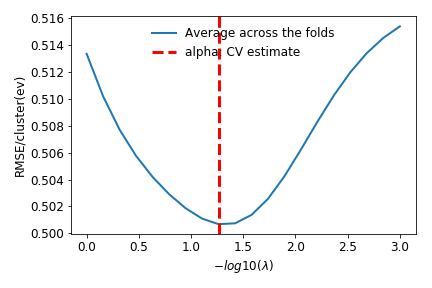
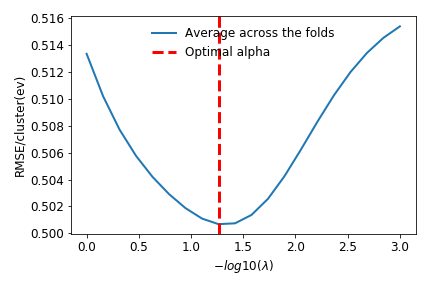
change on enet

Changed region(s): [[0.4213, 0.1562, 0.6921, 0.2188]]

diff --git a/Cluster-Expansion/v5_multi_ga/test_lasso.py b/Cluster-Expansion/v5_multi_ga/test_lasso.py
@@ -56,7 +56,7 @@ def plot_ridge_path(alpha, alphas, RMSE_path, model_name):
     plt.plot(-np.log10(alphas), np.mean(RMSE_path, axis = 1), 
              label='Average across the folds', linewidth=2)  
     plt.axvline(-np.log10(alpha), linestyle='--' , color='r', linewidth=3,
-                label='alpha: CV estimate') 
+                label='Optimal alpha') 
     
     plt.legend(frameon=False,loc='best')
     plt.xlabel(r'$-log10(\lambda)$')
@@ -87,7 +87,7 @@ def plot_path(alpha, alphas, RMSE_path, coef_path, model, model_name):
     plt.plot(-np.log10(alphas), np.mean(np.sqrt(RMSE_path), axis = 1), 
              label='Average across the folds', linewidth=2)  
     plt.axvline(-np.log10(alpha), linestyle='--' , color='r', linewidth=3,
-                label='alpha: CV estimate') 
+                label='Optimal alpha') 
     
     plt.legend(frameon=False,loc='best')
     plt.xlabel(r'$-log10(\lambda)$')
@@ -107,7 +107,7 @@ def plot_path(alpha, alphas, RMSE_path, coef_path, model, model_name):
     plt.plot(-np.log10(alphas),n_nonzero_v,
              label='Average across the folds', linewidth=2)     
     plt.axvline(-np.log10(alpha), linestyle='--' , color='r', linewidth=3,
-                label='alpha: CV estimate') 
+                label='Optimal alpha') 
     plt.legend(frameon=False, loc='best')
     plt.xlabel(r'$-log10(\lambda)$')
     plt.ylabel("Number of Nonzero Coefficients ")    
@@ -290,7 +290,7 @@ ridge_RMSE_path = cal_RMSE_path(alphas_grid, Ridge)
 ridge_alpha =  alphas_grid[np.argmin(np.mean(ridge_RMSE_path, axis =1))]
 plot_ridge_path(ridge_alpha, alphas_grid, ridge_RMSE_path, 'ridge')
 
-ridge = Ridge(alpha = ridge_alpha,  fit_intercept=fit_int_flag)
+ridge = Ridge(alpha = ridge_alpha,  max_iter = 1e7, tol = 0.0001, fit_intercept=fit_int_flag)
 ridge.fit(X_train, y_train)
 
 # Access the errors 
@@ -309,7 +309,7 @@ ridge_RMSE_train_atom = np.sqrt(mean_squared_error(y_train/NPd_train, y_predict_
 l1 ratio = 1 - lasso, l1 
 l1 ratio = 0 - ridge, l2
 '''
-from sklearn.linear_model import ElasticNetCV
+from sklearn.linear_model import ElasticNetCV, enet_path, ElasticNet
       
 def l1_enet(ratio):
     
@@ -360,7 +360,13 @@ for i, l1i in enumerate(l1s):
     
     enet_RMSE_test_atom.append(RMSE_test_atom)
     enet_RMSE_train_atom.append(RMSE_train_atom)
-
+'''
+#Use alpha grid prepare for enet_path when l1_ratio  = 0.95
+'''
+#%%enet_path to get alphas and coef_path
+enet_alphas_095, enet_coef_path_095, _ = enet_path(X_train, y_train, alphas = alphas_grid, fit_intercept=fit_int_flag)
+enet_RMSE_path_095 = cal_RMSE_path(alphas_grid, ElasticNet)    
+plot_path(enet_alphas[l1s.index(0.95)], enet_alphas_095, enet_RMSE_path_095, enet_coef_path_095, lasso_cv, 'elasticnet095')
 
 #%% Plot elastic net results
 # expand the vector, put the result of ridge to the first
@@ -369,14 +375,14 @@ enet_n_v  = np.array([X.shape[1]] + enet_n)
 enet_RMSE_test_v = np.array([ridge_RMSE_test] + enet_RMSE_test)
 plt.figure(figsize=(6,4))
 fig, ax1 = plt.subplots()
-ax1.plot(l1_ratio_v, enet_RMSE_test_v, 'b-')
+ax1.plot(l1_ratio_v, enet_RMSE_test_v, 'bo-')
 ax1.set_xlabel('L1 Ratio')
 # Make the y-axis label, ticks and tick labels match the line color.
 ax1.set_ylabel('RMSE/cluster(ev)', color='b')
 ax1.tick_params('y', colors='b')
 
 ax2 = ax1.twinx()
-ax2.plot(l1_ratio_v, enet_n_v, 'r')
+ax2.plot(l1_ratio_v, enet_n_v, 'ro-')
 ax2.set_ylabel('Number of Nonzero Coefficients', color='r')
 ax2.tick_params('y', colors='r')
 
